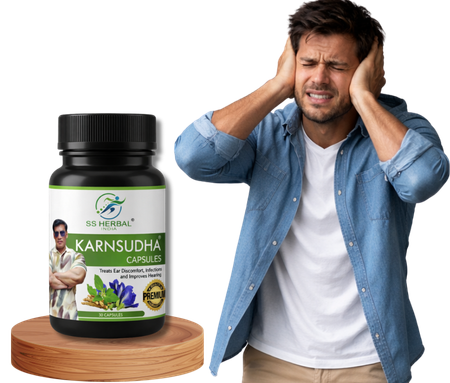
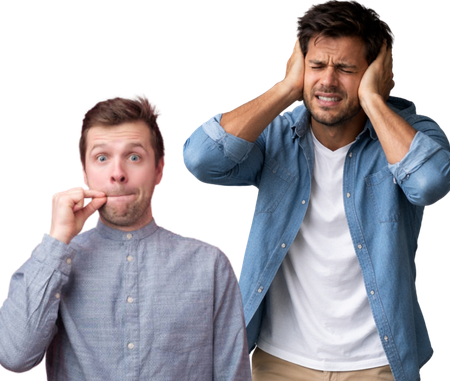
fourth commit

diff --git a/index.html b/index.html
@@ -495,7 +495,7 @@
         क्या आप या आपके परिवार में से <span style="color:#C45A10;font-weight:800;"> कोई गुंगेपन और बहरेपन</span> जैसी समस्या से परेशान हैं?
       </h1>
 
-      <img src="./Image/hook2.png" class="w-full h-[28vh]" alt="">
+      <img src="./Image/hook2.png" class="w-full h-auto" alt="">
       
       <p style="color:#4A2E14;font-size:26px;font-weight:700;margin-bottom:1px;line-height:1.7;padding:16px;border-radius:10px;">
         <span style="color:#046104;font-weight:800;">SS Herbal India</span> का दावा है कि <span style="color:#C45A10;font-weight:800;">1 लाख से ज्यादा लोगों</span> ने <span style="color:#C45A10;font-weight:800;">7–15 दिनों</span> के अंदर गूंगापन और बहरापन से जुड़ी परेशानियों में <span style="color:#C45A10;font-weight:800;">सकारात्मक सुधार</span> महसूस किया है।
@@ -505,19 +505,19 @@
         <p style="color:#2C1A0E;font-size:26px; text-decoration: underline; font-weight:700;margin-bottom:18px;">अगर आपके घर में कोई:</p>
         <div style="display:grid;grid-template-columns:1fr 1fr;gap:16px;">
           <div style="text-align:center;">
-            <img src="./Image/Pro1.png" alt="आवाज़ धीरे-धीरे" style="width:100%;height:180px;object-fit:cover;border-radius:10px;margin-bottom:10px;">
+            <img src="./Image/hook3.png" alt="आवाज़ धीरे-धीरे" style="width:100%;height:180px;object-fit:cover;border-radius:10px;margin-bottom:10px;">
             <p style="color:#4A2E14;font-size:20px;font-weight:600;line-height:1.6;">आवाज़ <span style="color:#C45A10;font-weight:700;">धीरे-धीरे</span> सुन्ने से…</p>
           </div>
           <div style="text-align:center;">
-            <img src="./Image/Pro2.png" alt="lips reading" style="width:100%;height:180px;object-fit:cover;border-radius:10px;margin-bottom:10px;">
+            <img src="./Image/hook4.png" alt="lips reading" style="width:100%;height:180px;object-fit:cover;border-radius:10px;margin-bottom:10px;">
             <p style="color:#4A2E14;font-size:20px;font-weight:600;line-height:1.6;">सामने वाले की बात समझने के लिए <span style="color:#C45A10;font-weight:700;">lips reading</span> समझने मैं…</p>
           </div>
           <div style="text-align:center;">
-            <img src="./Image/Pro3.png" alt="शब्द को तोड़ तोड़ से" style="width:100%;height:180px;object-fit:cover;border-radius:10px;margin-bottom:10px;">
+            <img src="./Image/hook5.png" alt="शब्द को तोड़ तोड़ से" style="width:100%;height:180px;object-fit:cover;border-radius:10px;margin-bottom:10px;">
             <p style="color:#4A2E14;font-size:20px;font-weight:600;line-height:1.6;">शब्द को <span style="color:#C45A10;font-weight:700;">तोड़ तोड़ से</span>…</p>
           </div>
           <div style="text-align:center;">
-            <img src="./Image/Pro4.png" alt="हकलापन" style="width:100%;height:180px;object-fit:cover;border-radius:10px;margin-bottom:10px;">
+            <img src="./Image/hook6.png" alt="हकलापन" style="width:100%;height:180px;object-fit:cover;border-radius:10px;margin-bottom:10px;">
             <p style="color:#4A2E14;font-size:20px;font-weight:600;line-height:1.6;">हकलापन से ही <span style="color:#C45A10;font-weight:700;">बात करने</span> से…</p>
           </div>
         </div>
